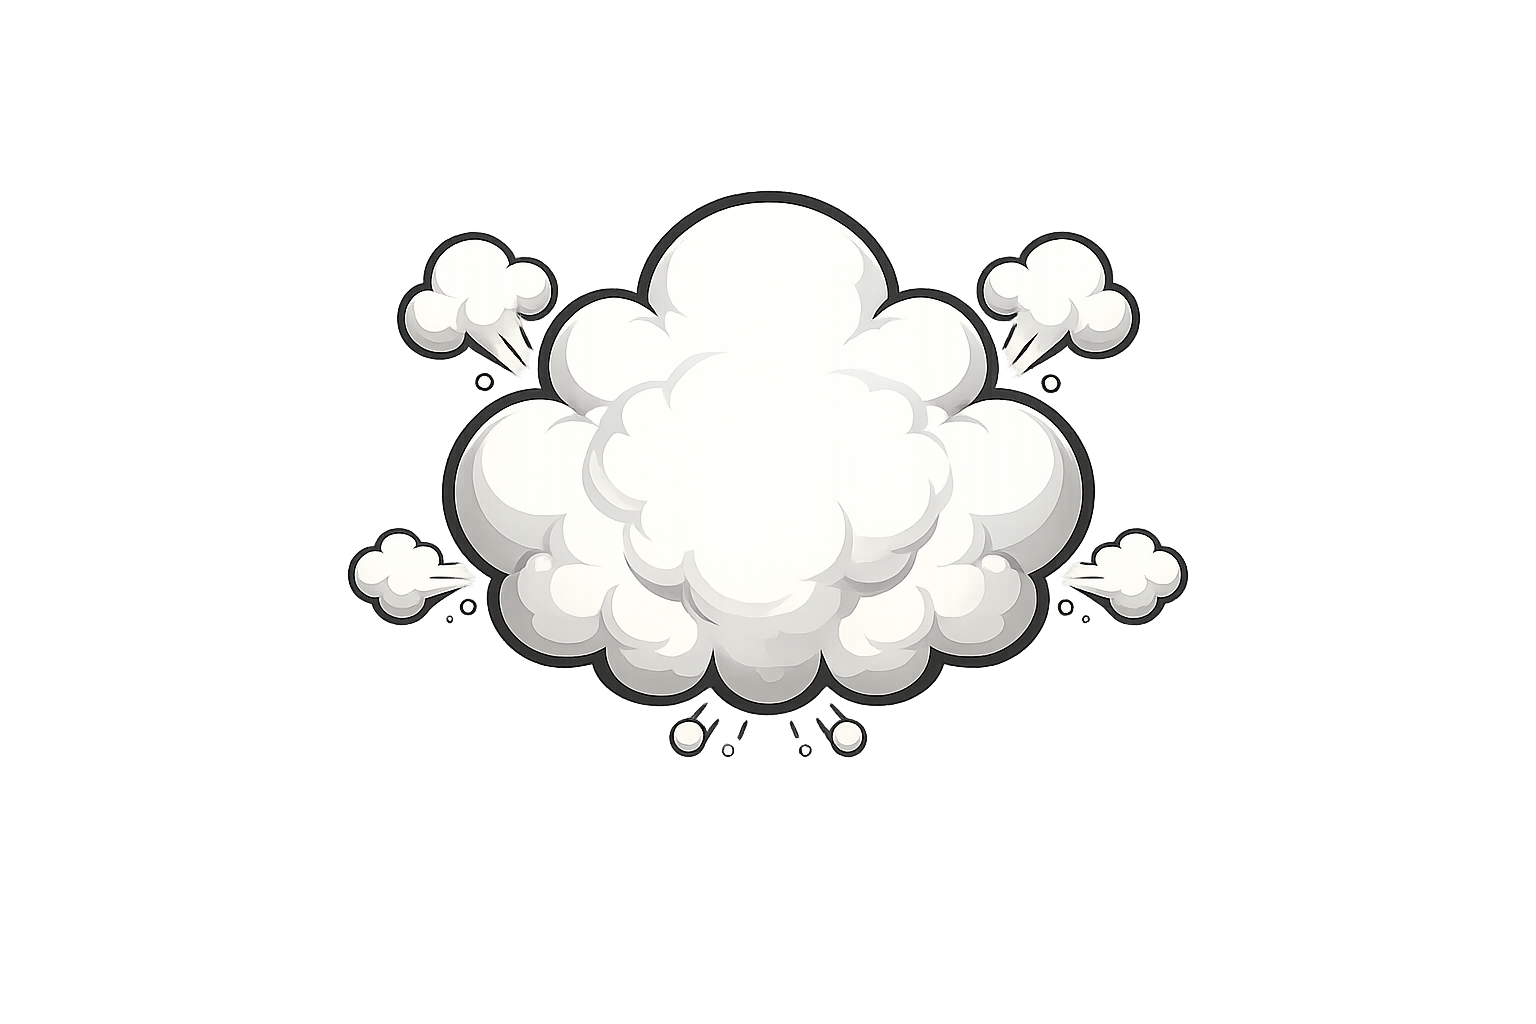
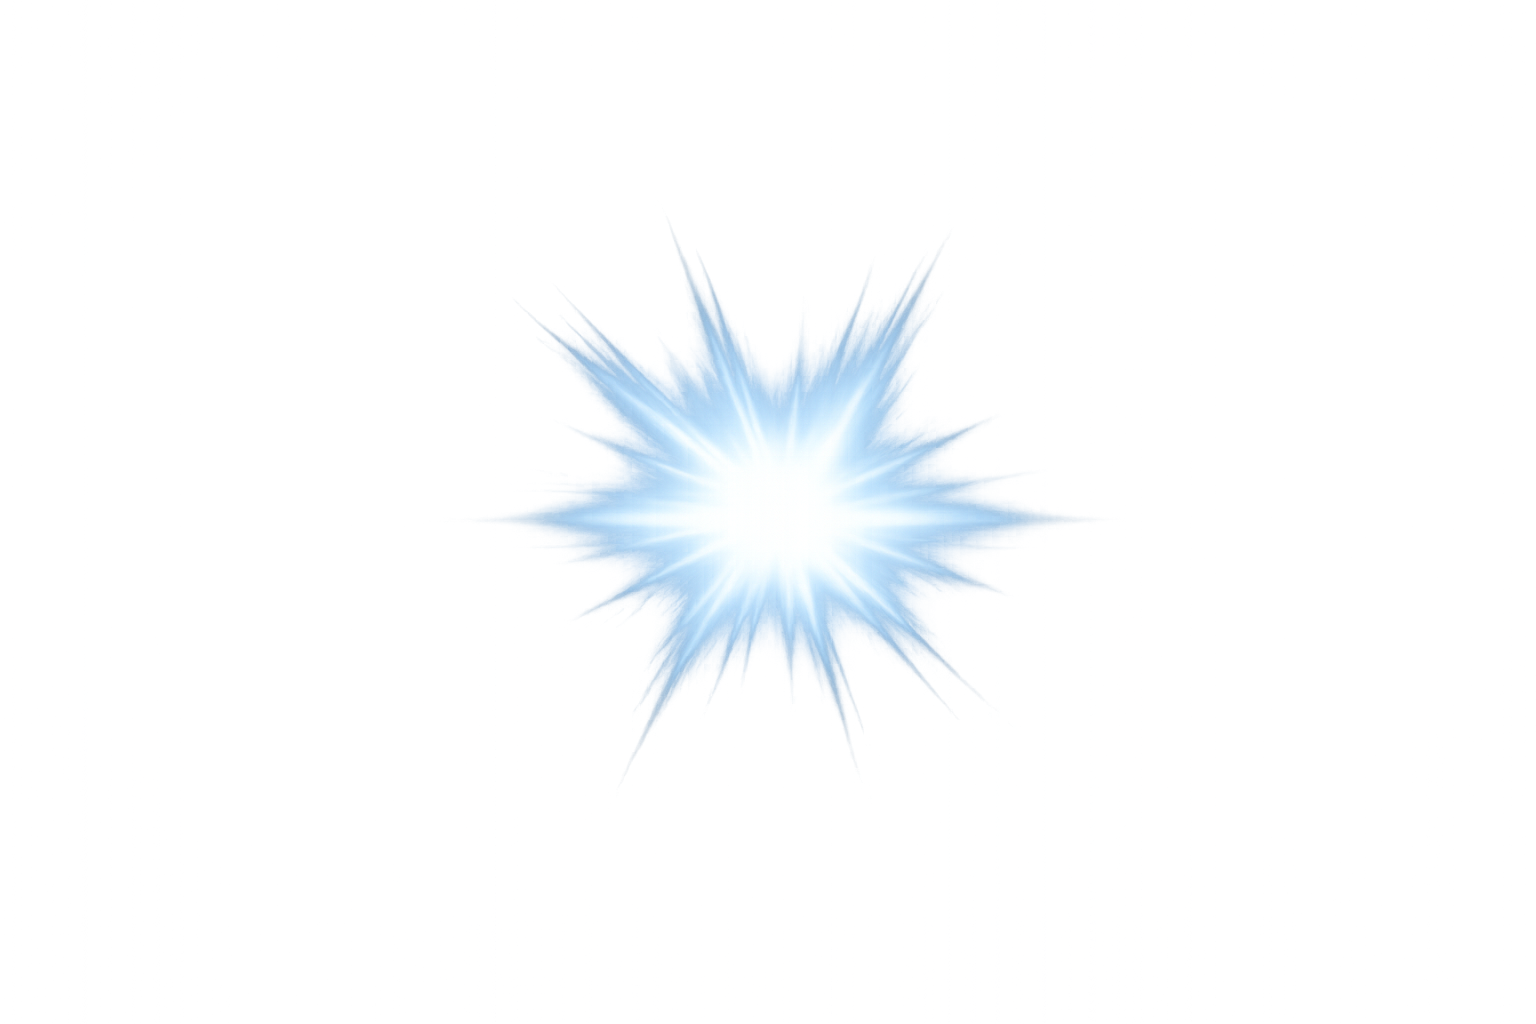
demo

Changed region(s): [[0.2188, 0.1875, 0.7812, 0.75], [0.2812, 0.2188, 0.3438, 0.25]]

diff --git a/birdTask/prototype/demo_trial.html b/birdTask/prototype/demo_trial.html
@@ -293,24 +293,17 @@
     100% { top: 72%; opacity: 0; }
   }
 
-  @keyframes objDrop {
-    from { top: 72%; }
-    to   { top: 105%; }
+  @keyframes objDropSpread {
+    0%   { top: 72%; transform: translateX(0) scale(0.8); }
+    15%  { top: 68%; transform: translateX(calc(var(--spread-x) * 0.2)) scale(1.1); } /* slight upward pop */
+    100% { top: 105%; transform: translateX(var(--spread-x)) scale(1); }
   }
 
-  @keyframes objDropLeft {
-    from { top: 72%; transform: translateX(0); }
-    to   { top: 105%; transform: translateX(-15px); }
-  }
-
-  @keyframes objDropRight {
-    from { top: 72%; transform: translateX(0); }
-    to   { top: 105%; transform: translateX(15px); }
-  }
-
-  @keyframes explodeAnim {
-    from { opacity: 0.2; }
-    to   { opacity: 0; }
+  /* FIXED: Renamed explodeAnim to lightBurst and added scale effect for realism */
+  @keyframes lightBurst {
+    0%   { opacity: 1; transform: translate(-50%, -50%) scale(0.4); }
+    50%  { opacity: 1; transform: translate(-50%, -50%) scale(1.1); }
+    100% { opacity: 0; transform: translate(-50%, -50%) scale(1.3); }
   }
 </style>
 </head>
@@ -457,11 +450,12 @@
     bag.style.transform = 'translateX(-50%)';
 
     const expl = document.getElementById('expl');
+    expl.className = 'asset expl-el';
     expl.style.animation = 'none';
     expl.style.opacity = '0';
     expl.style.top = IMPACT_TOP;
     expl.style.left = '50%';
-    expl.style.transform = 'translate(-50%, -50%)';
+    expl.style.transform = 'translate(-50%, -50%) scale(0.4)';
 
     for (let i = 0; i < COINS; i++) {
       const obj = document.getElementById('g' + i);
@@ -508,7 +502,7 @@
       void bag.offsetWidth;
       bag.style.left = bagPos + '%';
       bag.style.opacity = '1';
-      bag.style.top = '12%';
+      bag.style.top = BAG_START_TOP;
       bag.style.animation = 'bagdrop 1000ms ease-in forwards';
 
       addTimeout(() => {
@@ -516,12 +510,12 @@
         bag.style.animation = 'none';
 
         const expl = document.getElementById('expl');
+        expl.className = 'asset expl-el' + (mode === 'loss' ? ' loss' : '');
         expl.style.animation = 'none';
         void expl.offsetWidth;
         expl.style.left = bagPos + '%';
         expl.style.top = IMPACT_TOP;
-        expl.style.opacity = '0.2';
-        expl.style.animation = 'explodeAnim 300ms linear forwards';
+        expl.style.animation = 'lightBurst 260ms ease-out forwards';
 
         const captureIndices = [];
 
@@ -537,14 +531,11 @@
 
           obj.style.visibility = 'visible';
 
-          const half = (COINS - 1) / 2;
-          if (i < half) {
-            obj.style.animation = `objDropLeft ${COIN_DUR[i]}ms cubic-bezier(.7,.3,1,1) forwards`;
-          } else if (i > half) {
-            obj.style.animation = `objDropRight ${COIN_DUR[i]}ms cubic-bezier(.7,.3,1,1) forwards`;
-          } else {
-            obj.style.animation = `objDrop ${COIN_DUR[i]}ms cubic-bezier(.7,.3,1,1) forwards`;
-          }
+          // Dynamically set the X spread based on your existing COIN_DIST array
+          obj.style.setProperty('--spread-x', (COIN_DIST[i] * 0.5) + 'vw');
+          
+          // Apply the single dynamic animation
+          obj.style.animation = `objDropSpread ${COIN_DUR[i]}ms cubic-bezier(0.4, 0, 1, 1) forwards`;
 
           const capFrac = 19 / 30;
 
@@ -637,3 +628,4 @@
 </script>
 </body>
 </html>
+
